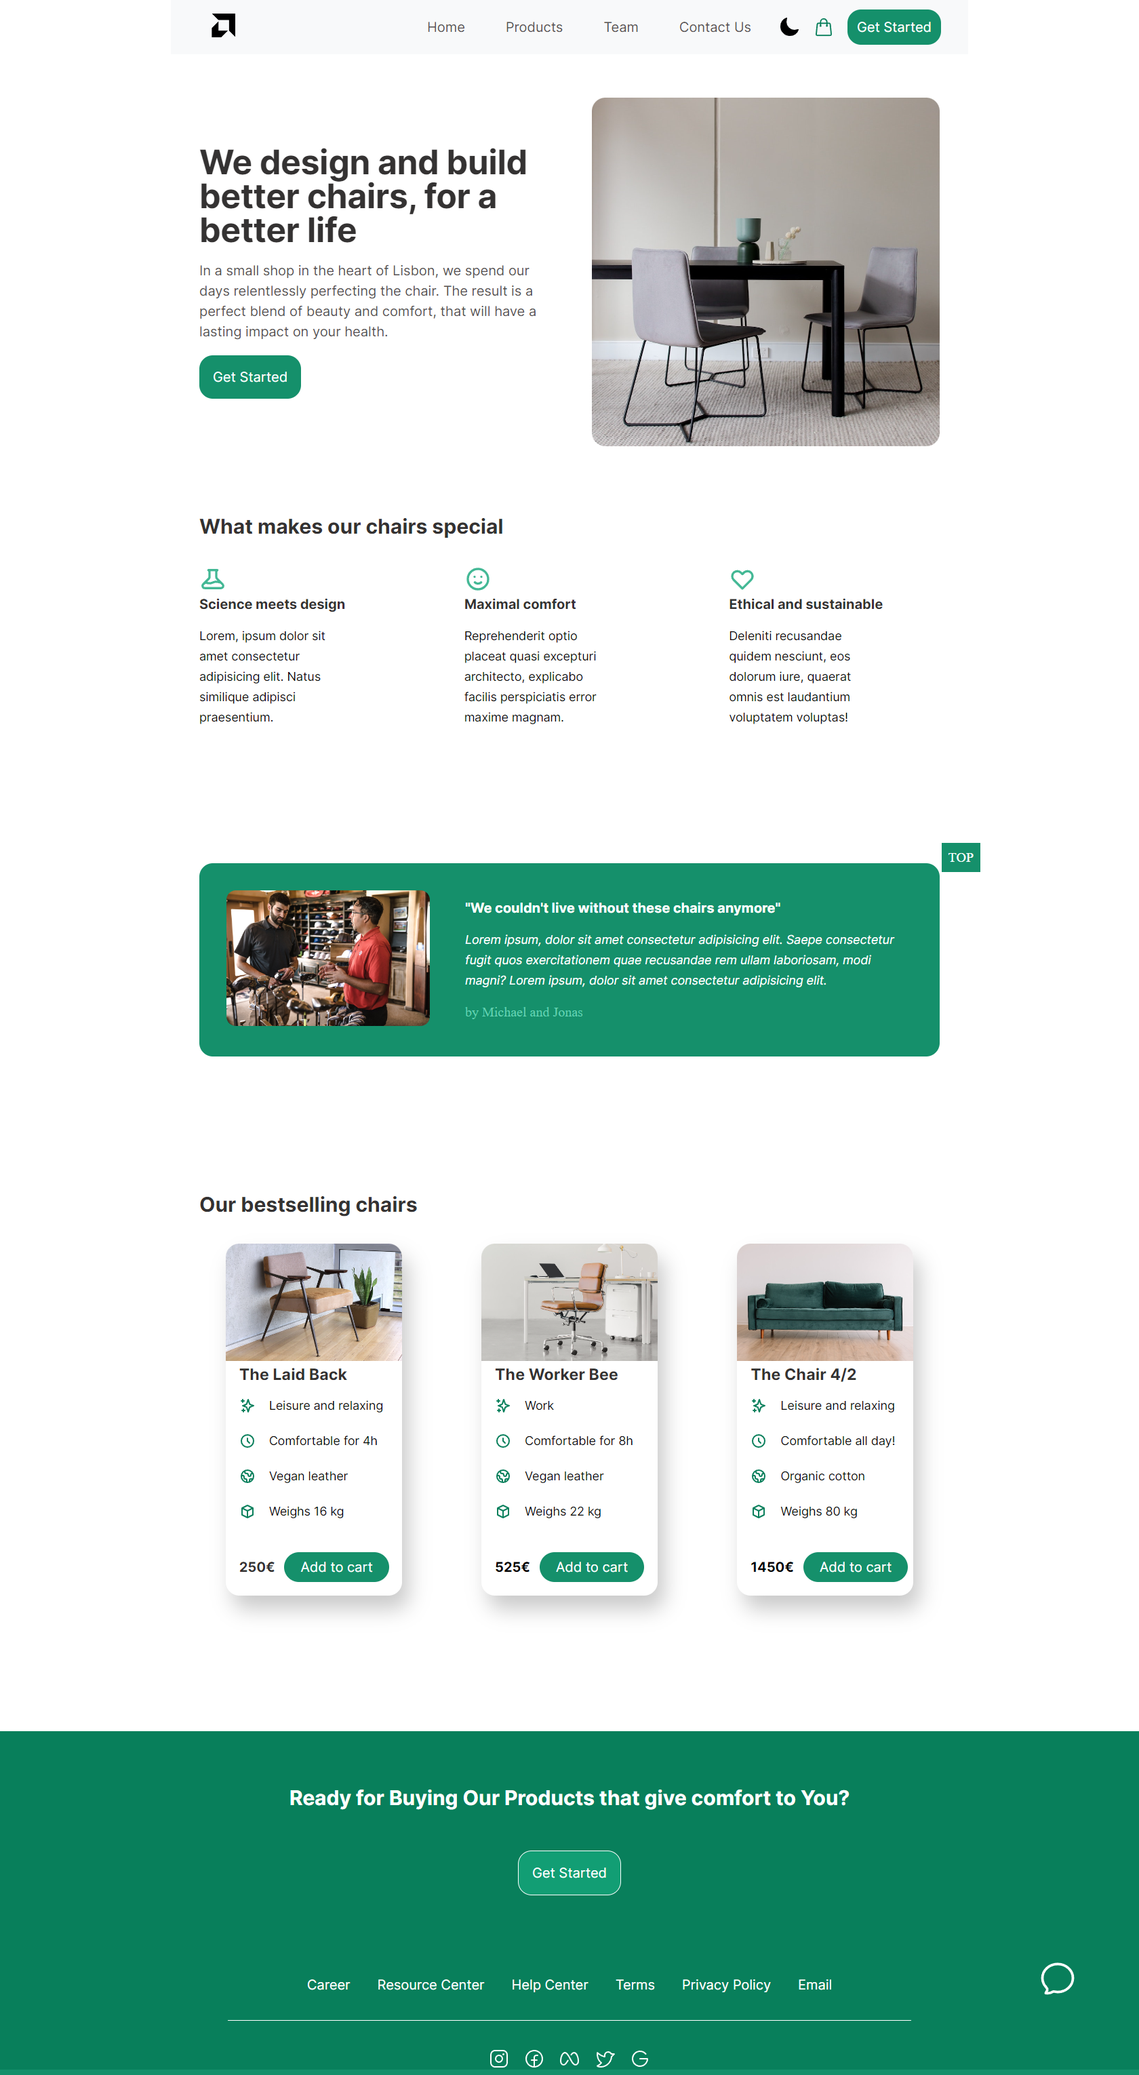
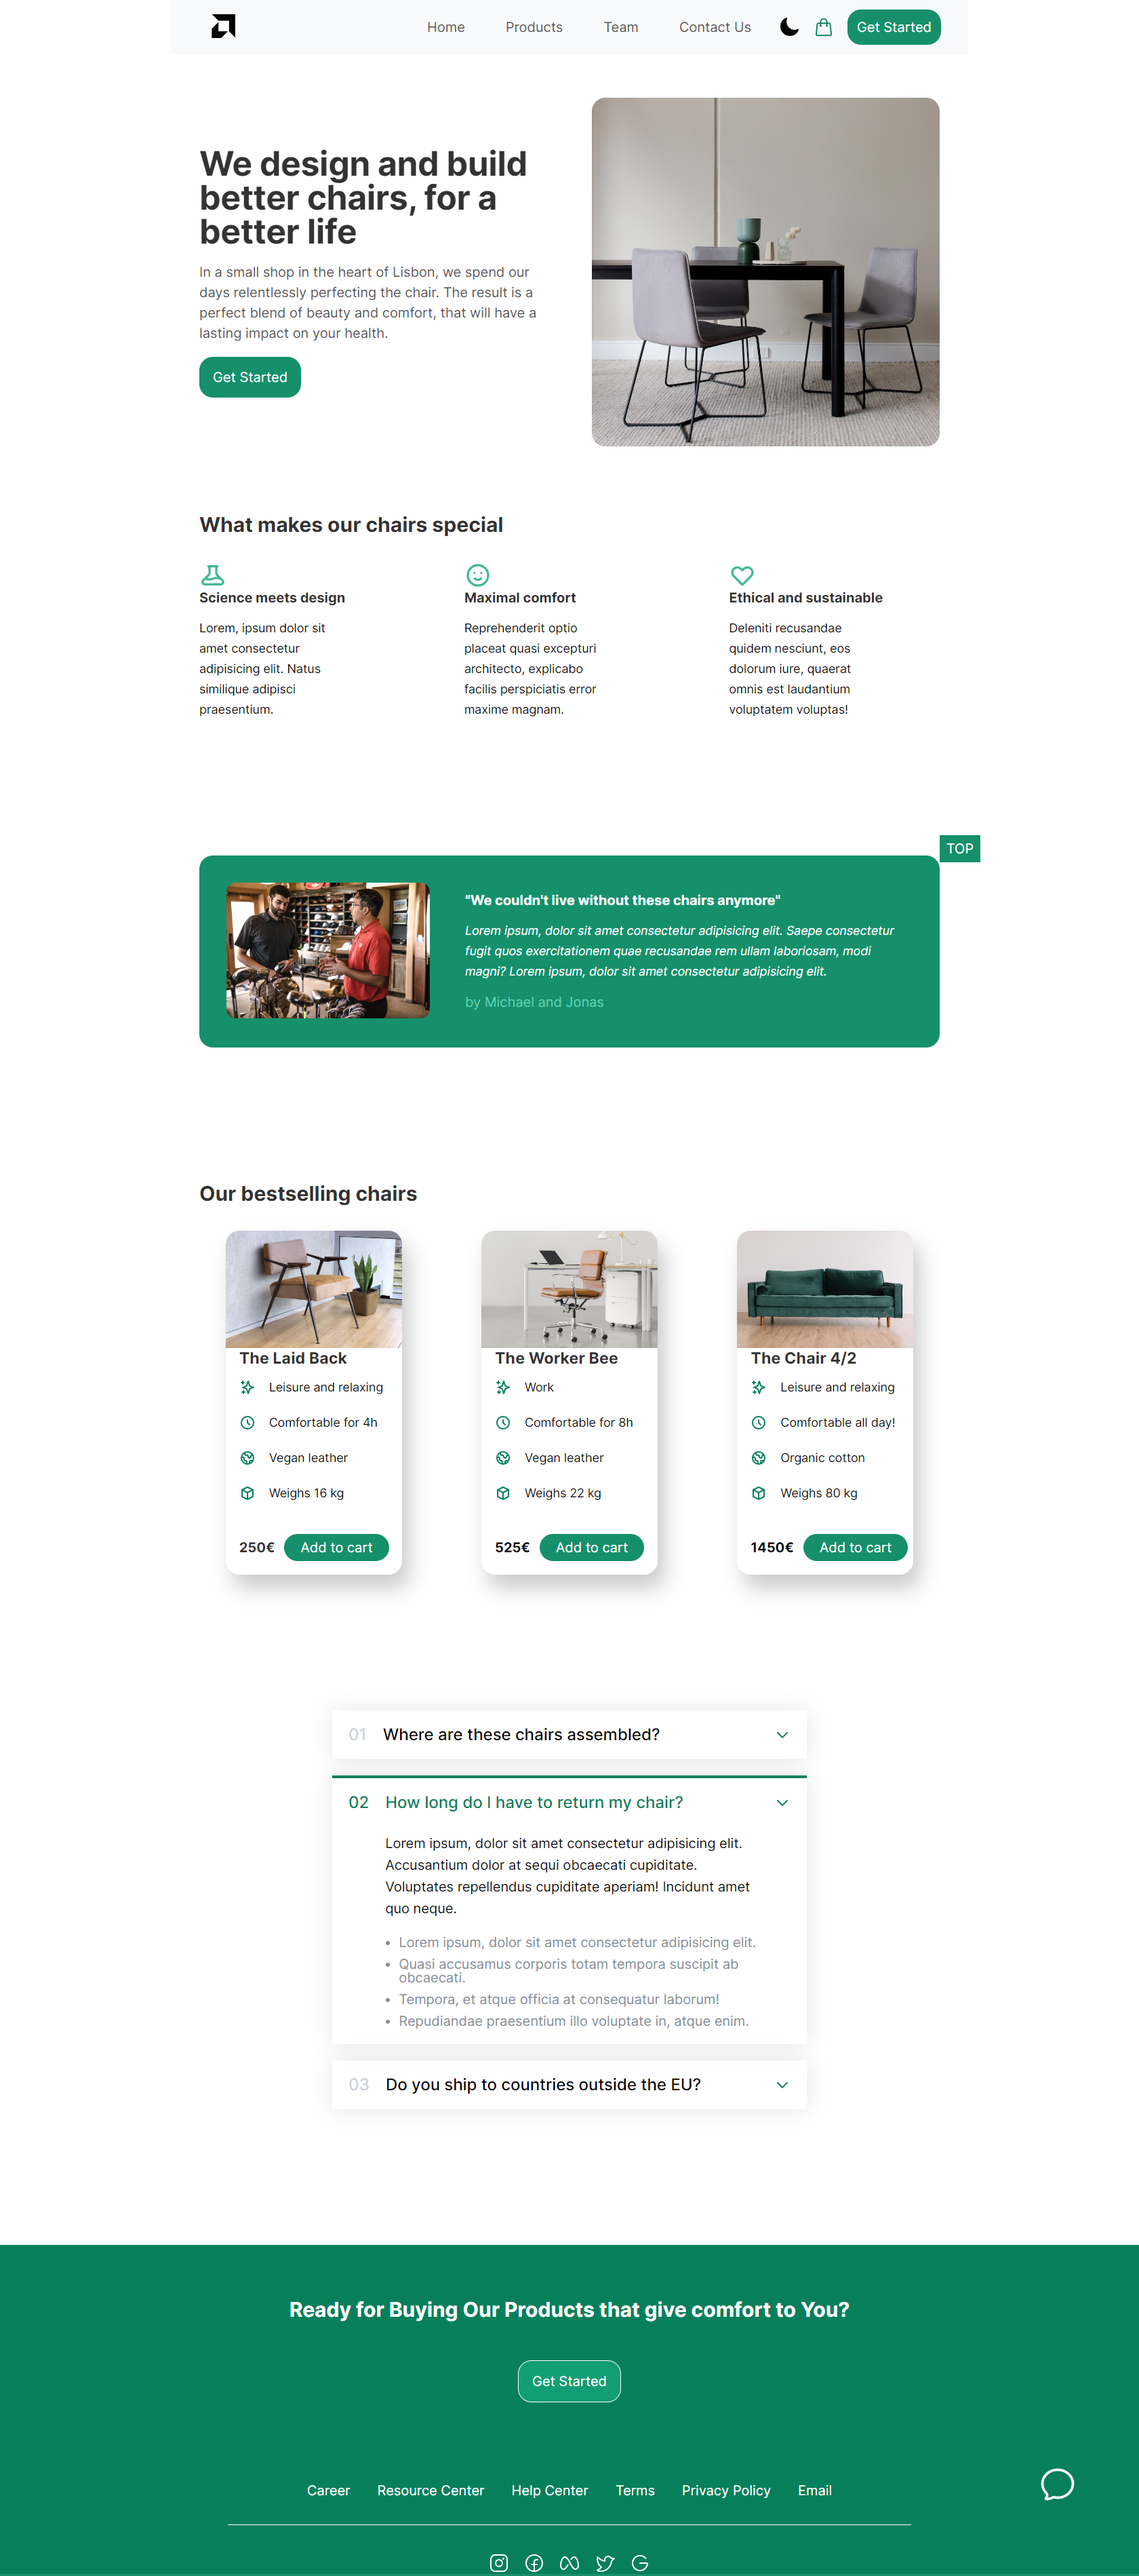
Accordion Added to Site

diff --git a/ShahidSite.html b/ShahidSite.html
@@ -453,6 +453,117 @@
           </figure>
         </div>
       </section>
+      <section>
+        <div class="accordion">
+          <div class="item">
+            <p class="number">01</p>
+            <p class="text">Where are these chairs assembled?</p>
+            <svg
+              xmlns="http://www.w3.org/2000/svg"
+              class="icon"
+              fill="none"
+              viewBox="0 0 24 24"
+              stroke="currentColor"
+            >
+              <path
+                stroke-linecap="round"
+                stroke-linejoin="round"
+                stroke-width="2"
+                d="M19 9l-7 7-7-7"
+              />
+            </svg>
+            <div class="hidden-box">
+              <p>
+                Lorem ipsum, dolor sit amet consectetur adipisicing elit.
+                Accusantium dolor at sequi obcaecati cupiditate. Voluptates
+                repellendus cupiditate aperiam! Incidunt amet quo neque.
+              </p>
+              <ul>
+                <li>
+                  Lorem ipsum, dolor sit amet consectetur adipisicing elit.
+                </li>
+                <li>
+                  Quasi accusamus corporis totam tempora suscipit ab obcaecati.
+                </li>
+                <li>Tempora, et atque officia at consequatur laborum!</li>
+                <li>Repudiandae praesentium illo voluptate in, atque enim.</li>
+              </ul>
+            </div>
+          </div>
+
+          <div class="item open">
+            <p class="number">02</p>
+            <p class="text">How long do I have to return my chair?</p>
+            <svg
+              xmlns="http://www.w3.org/2000/svg"
+              class="icon"
+              fill="none"
+              viewBox="0 0 24 24"
+              stroke="currentColor"
+            >
+              <path
+                stroke-linecap="round"
+                stroke-linejoin="round"
+                stroke-width="2"
+                d="M19 9l-7 7-7-7"
+              />
+            </svg>
+            <div class="hidden-box">
+              <p>
+                Lorem ipsum, dolor sit amet consectetur adipisicing elit.
+                Accusantium dolor at sequi obcaecati cupiditate. Voluptates
+                repellendus cupiditate aperiam! Incidunt amet quo neque.
+              </p>
+              <ul>
+                <li>
+                  Lorem ipsum, dolor sit amet consectetur adipisicing elit.
+                </li>
+                <li>
+                  Quasi accusamus corporis totam tempora suscipit ab obcaecati.
+                </li>
+                <li>Tempora, et atque officia at consequatur laborum!</li>
+                <li>Repudiandae praesentium illo voluptate in, atque enim.</li>
+              </ul>
+            </div>
+          </div>
+
+          <div class="item">
+            <p class="number">03</p>
+            <p class="text">Do you ship to countries outside the EU?</p>
+            <svg
+              xmlns="http://www.w3.org/2000/svg"
+              class="icon"
+              fill="none"
+              viewBox="0 0 24 24"
+              stroke="currentColor"
+            >
+              <path
+                stroke-linecap="round"
+                stroke-linejoin="round"
+                stroke-width="2"
+                d="M19 9l-7 7-7-7"
+              />
+            </svg>
+            <div class="hidden-box">
+              <p>
+                Lorem ipsum, dolor sit amet consectetur adipisicing elit.
+                Accusantium dolor at sequi obcaecati cupiditate. Voluptates
+                repellendus cupiditate aperiam! Incidunt amet quo neque.
+              </p>
+              <ul>
+                <li>
+                  Lorem ipsum, dolor sit amet consectetur adipisicing elit.
+                </li>
+                <li>
+                  Quasi accusamus corporis totam tempora suscipit ab obcaecati.
+                </li>
+                <li>Tempora, et atque officia at consequatur laborum!</li>
+                <li>Repudiandae praesentium illo voluptate in, atque enim.</li>
+              </ul>
+            </div>
+          </div>
+        </div>
+      </section>
     </div>
     <div class="footer" id="footer">
       <div class="footerHeading">

diff --git a/shahidDesignSite.css b/shahidDesignSite.css
@@ -2,10 +2,12 @@
   margin: 0;
   padding: 0;
   box-sizing: border-box;
+  font-family: "Inter", sans-serif;
 }
 body {
   border-bottom: 8px solid #15906b;
   position: relative;
+  line-height: 1;
 }
 .border_radius {
   border-radius: 1rem;
@@ -317,6 +319,77 @@ figure img {
 }
 .chair-price p:hover {
   background-color: #4ebc9b;
+}
+
+/* Accordion Section  */
+.accordion {
+  width: 700px;
+  margin: 100px auto;
+
+  display: flex;
+  flex-direction: column;
+  gap: 24px;
+}
+
+.item {
+  box-shadow: 0 0 32px rgba(0, 0, 0, 0.1);
+  padding: 24px;
+
+  display: grid;
+  grid-template-columns: auto 1fr auto;
+  column-gap: 24px;
+  row-gap: 32px;
+  align-items: center;
+}
+
+.number,
+.text {
+  font-size: 24px;
+  font-weight: 500;
+  /* color: #087f5b; */
+}
+
+.number {
+  color: #ced4da;
+}
+
+.icon {
+  width: 24px;
+  heigh: 24px;
+  stroke: #087f5b;
+}
+
+.hidden-box {
+  grid-column: 2;
+  display: none;
+}
+
+.hidden-box p {
+  line-height: 1.6;
+  margin-bottom: 24px;
+}
+
+.hidden-box ul {
+  color: #868e96;
+  margin-left: 20px;
+
+  display: flex;
+  flex-direction: column;
+  gap: 12px;
+}
+
+/* OPEN STATE */
+.open {
+  border-top: 4px solid #087f5b;
+}
+
+.open .hidden-box {
+  display: block;
+}
+
+.open .number,
+.open .text {
+  color: #087f5b;
 }
 
 /* Footer Section Designing  */
